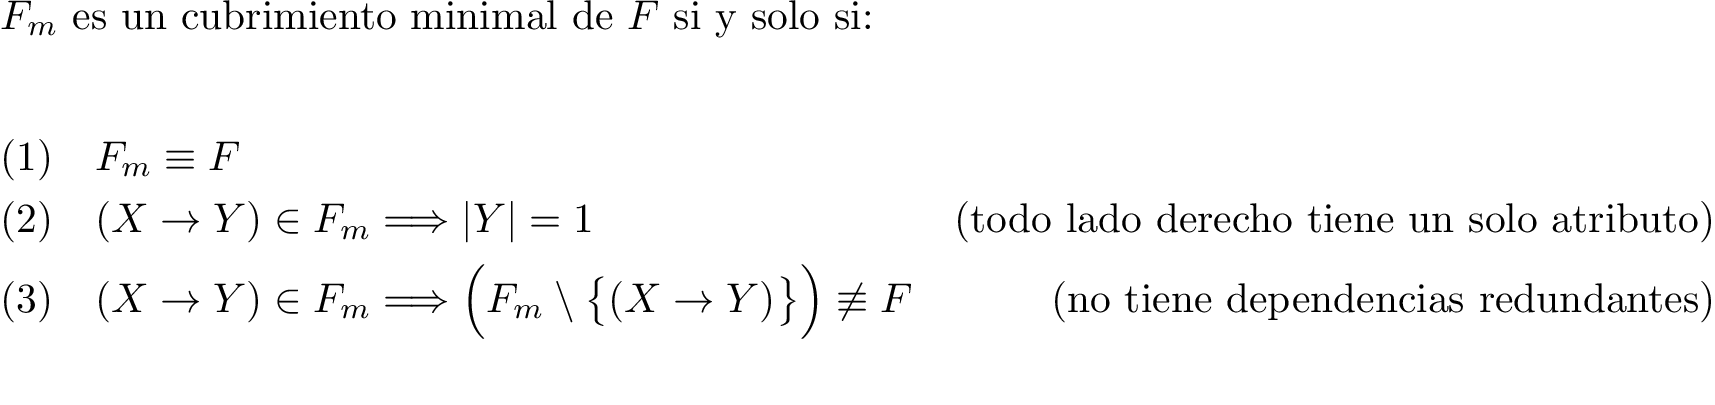
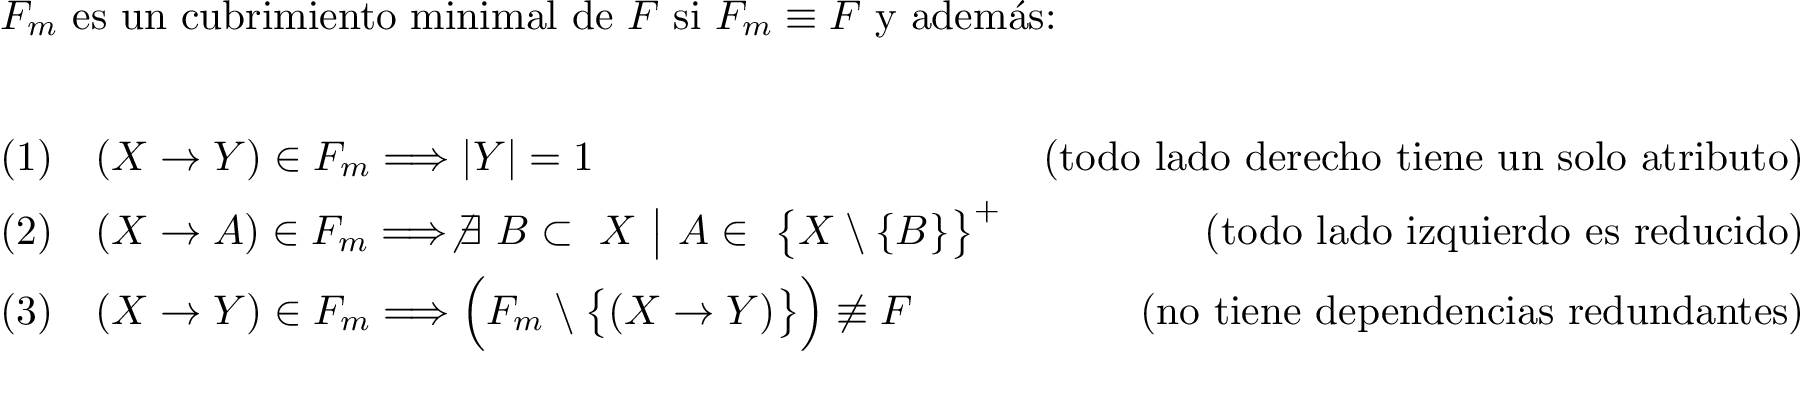
cubrimiento minimal fix

diff --git a/present/tex/df-cubrimiento-minimal.tex b/present/tex/df-cubrimiento-minimal.tex
@@ -2,11 +2,11 @@
 \usepackage{amsmath}
 
 \begin{document}
-$F_m$ es un cubrimiento minimal de $F$ si y solo si:
+$F_m$ es un cubrimiento minimal de $F$ si $F_m\equiv F$ y adem\'as:
 
 \begin{align*}
-(1)\quad & F_m \equiv F & \\
-(2)\quad  & (X\rightarrow Y) \in F_m \Longrightarrow |Y| = 1& \text{(todo lado derecho tiene un solo atributo)}\\
+(1)\quad  & (X\rightarrow Y) \in F_m \Longrightarrow |Y| = 1& \text{(todo lado derecho tiene un solo atributo)}\\
+(2)\quad  & (X\rightarrow A) \in F_m \Longrightarrow \not \exists \ B \subset \ X \ \big| \  A\in \  \big\{ X \setminus \{B\} \big\}^+ & \text{(todo lado izquierdo es reducido)}\\
 (3)\quad  & (X\rightarrow Y) \in F_m \Longrightarrow \Big(F_m\setminus\big\{(X\rightarrow Y)\big\}\Big)\not\equiv F & \text{(no tiene dependencias redundantes)}\\
 \end{align*}
 \end{document}
